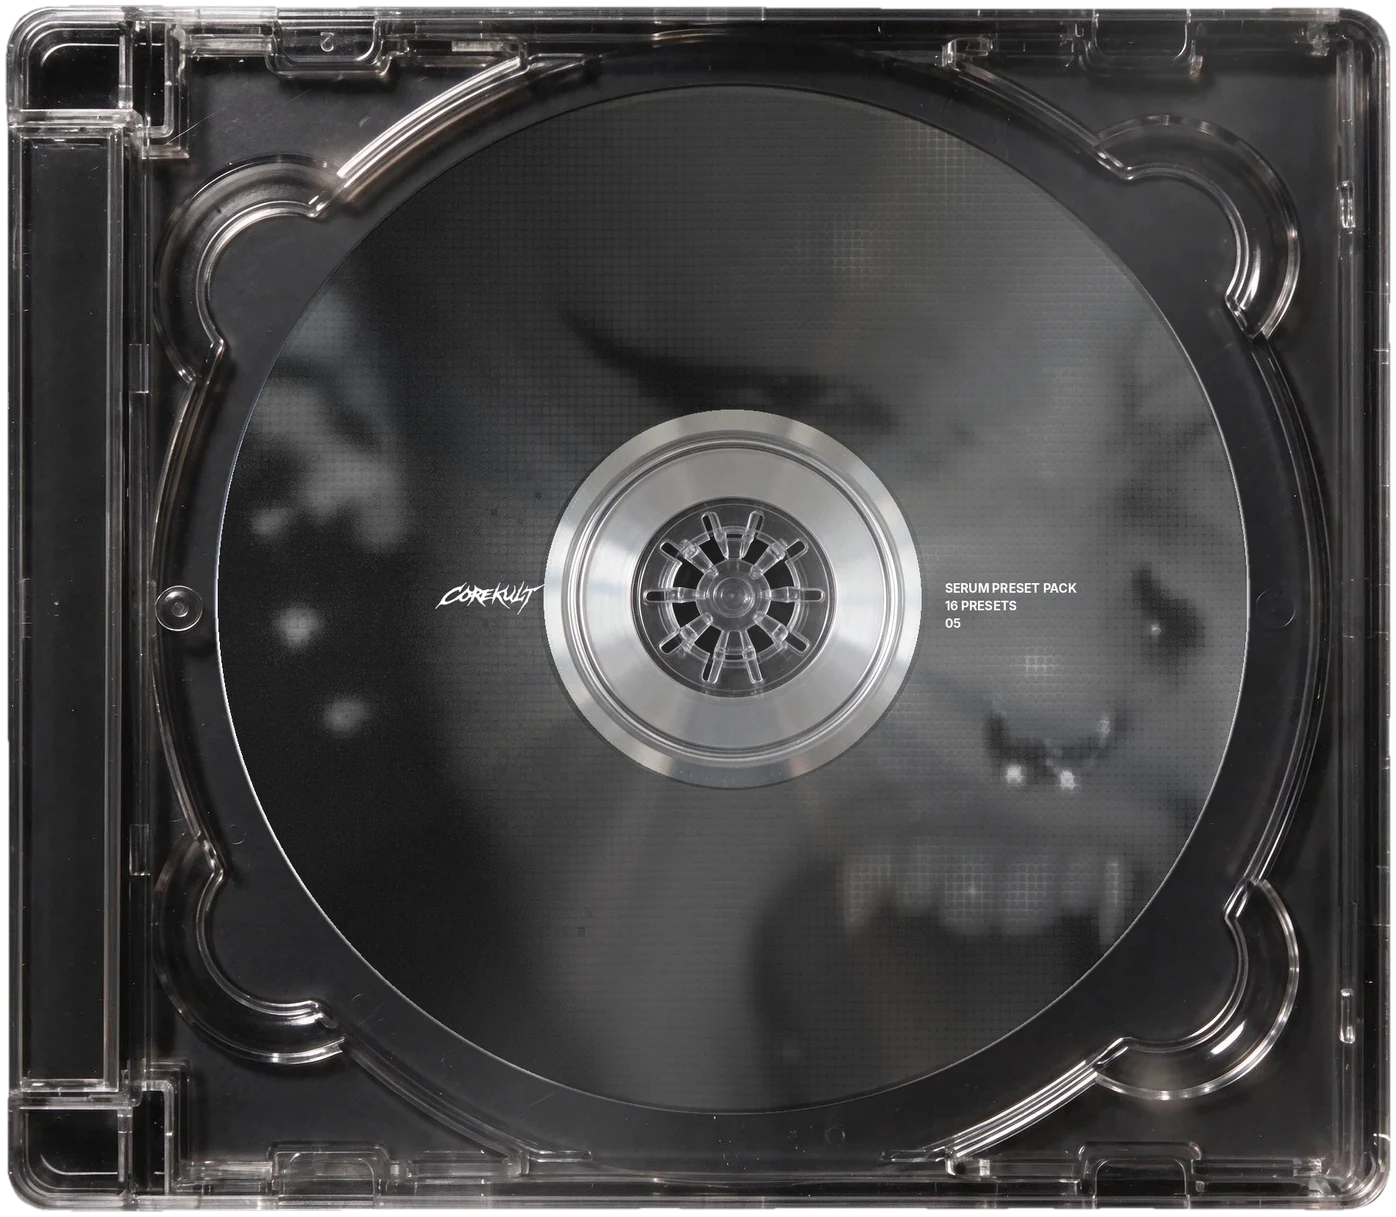
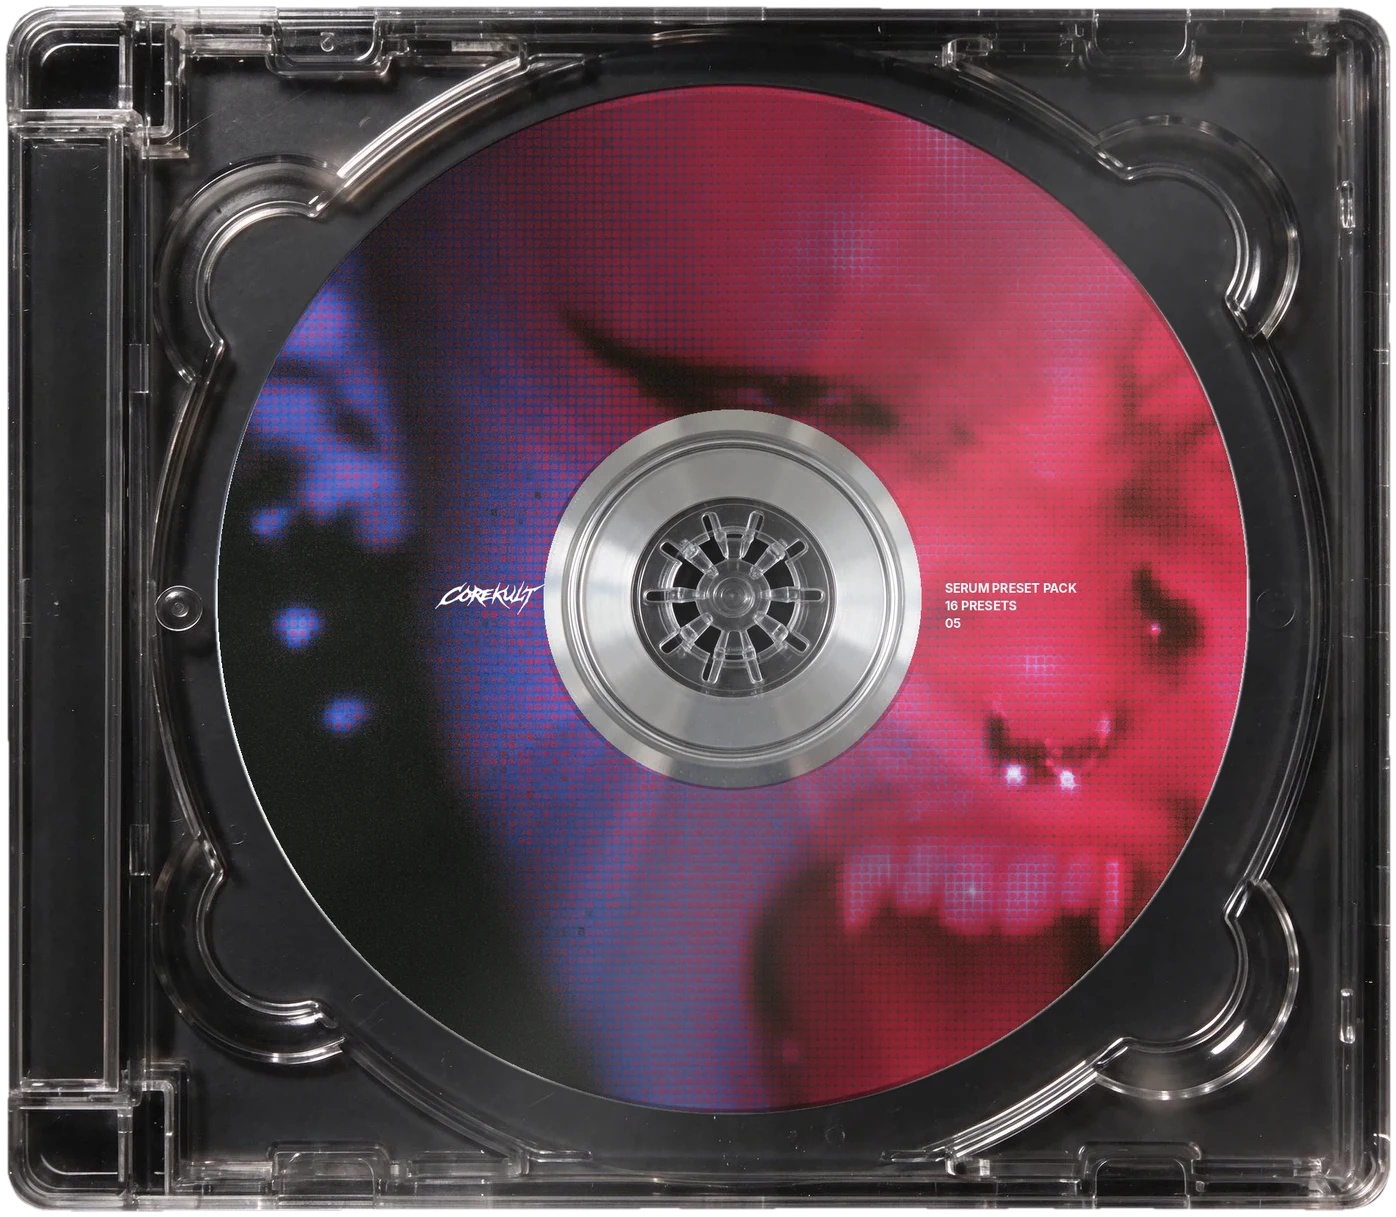
Clean test: V shape picker (31 shapes, Eman's 6 first); packs test: keep colour on portrait disc art
Claude-Session: https://claude.ai/code/session_01A7HnPv9JZyi9h5ztYhoS7x

diff --git a/preview/site/clean-test.html b/preview/site/clean-test.html
@@ -139,6 +139,23 @@ h1{font-family:var(--sans);font-weight:900;font-size:clamp(52px,10.5vw,148px);li
 #list:is([data-v=o],[data-v=p],[data-v=q],[data-v=r]) .card{padding:24px 24px 28px}
 #list:is([data-v=o],[data-v=p]) .card[data-cat=keys]{padding-top:34px}
 #list[data-v=r] .card{padding:26px 28px 30px}
+
+/* shape picker (V) */
+#list .card.pk{display:none}
+#list .card .pn{display:none}
+#list[data-v=v] .card:not(.pk){display:none}
+#list[data-v=v] .ch{display:none}
+#list[data-v=v] .card.pk{display:flex;padding:28px 28px 32px}
+#list[data-v=v]{gap:76px 30px;margin-bottom:70px}
+#list[data-v=v] .card{border:0}
+#list[data-v=v] .fr{display:block;position:absolute;inset:0;width:100%;height:100%;overflow:visible;pointer-events:none}
+#list[data-v=v] .trk{left:0;right:0;bottom:0}
+#list[data-v=v] .trk::before{display:none}
+#list[data-v=v] .card .pn{display:flex;position:absolute;left:0;top:-48px;gap:10px;align-items:baseline;white-space:nowrap}
+.pn b{font:700 22px var(--sans);letter-spacing:-.02em}
+.pn span{font:400 10.5px var(--mono);letter-spacing:.14em;text-transform:uppercase;color:var(--ink2)}
+.pn em{font:600 10px var(--mono);letter-spacing:.14em;text-transform:uppercase;font-style:normal;background:var(--ink);color:var(--paper);padding:2px 7px}
+#list .fr path.dash{stroke-dasharray:10 7}
 @media(max-width:1100px){#list{grid-template-columns:repeat(3,minmax(0,1fr))}}
 @media(max-width:860px){#list{grid-template-columns:repeat(2,minmax(0,1fr));gap:12px}
 #list .st,#list .tm{font-size:9px;letter-spacing:.08em}
@@ -293,7 +310,7 @@ h1{font-family:var(--sans);font-weight:900;font-size:clamp(52px,10.5vw,148px);li
   <div class="wrap">
     <div class="head">
       <div><a class="back" href="packs-test.html">back to all sounds</a><div class="lab" style="margin-top:6px;color:var(--ink3)">14 of 20 shown</div></div>
-      <div class="vsw" id="vsw"><button data-v="a">a / boxes</button><button data-v="b">b / label sheet</button><button data-v="c">c / thorn</button><button data-v="d">d / dark</button><button data-v="e">e / cream labels</button><button data-v="f">f / white purple</button><button data-v="g">g / kraft</button><button data-v="h">h / charcoal</button><button data-v="i">i / acid</button><button data-v="j">j / side strip</button><button data-v="k">k / ticket</button><button data-v="l">l / split</button><button data-v="m">m / blueprint</button><button data-v="n">n / receipt</button><button data-v="o">o / shapes block</button><button data-v="p">p / shapes double</button><button data-v="q">q / shapes sharp</button><button data-v="r">r / shapes brackets</button><button data-v="s">s / chip box</button><button data-v="t">t / chip thorn</button><button data-v="u">u / chip colour box</button></div>
+      <div class="vsw" id="vsw"><button data-v="a">a / boxes</button><button data-v="b">b / label sheet</button><button data-v="c">c / thorn</button><button data-v="d">d / dark</button><button data-v="e">e / cream labels</button><button data-v="f">f / white purple</button><button data-v="g">g / kraft</button><button data-v="h">h / charcoal</button><button data-v="i">i / acid</button><button data-v="j">j / side strip</button><button data-v="k">k / ticket</button><button data-v="l">l / split</button><button data-v="m">m / blueprint</button><button data-v="n">n / receipt</button><button data-v="o">o / shapes block</button><button data-v="p">p / shapes double</button><button data-v="q">q / shapes sharp</button><button data-v="r">r / shapes brackets</button><button data-v="s">s / chip box</button><button data-v="t">t / chip thorn</button><button data-v="u">u / chip colour box</button><button data-v="v">v / shape picker (31)</button></div>
     </div>
     <div id="list" data-v="a"></div>
     <div id="list2" data-v="e" style="display:none"></div>
@@ -379,9 +396,69 @@ const SHAPES={
   pad:(x,y,w,h)=>"M"+(x+22)+" "+y+"Q"+(x-14)+" "+(y+h/2)+" "+(x+22)+" "+(y+h)+"M"+(x+w-22)+" "+y+"Q"+(x+w+14)+" "+(y+h/2)+" "+(x+w-22)+" "+(y+h),
   keys:(x,y,w,h)=>{let d=OPEN([[x,y],[x+w,y]])+OPEN([[x,y+h],[x+w,y+h]]);for(let k=0;k<=w;k+=26){d+="M"+(x+k)+" "+(y+h)+"v-16"}for(let k=0;k<=w;k+=26){d+="M"+(x+k)+" "+y+"v10"}return d}}
 };
+
+/* ---- shape library for the picker (V) ---- */
+const PLJ=(p,a)=>"M"+p.map(q=>(q[0]+Jt(a)).toFixed(1)+" "+(q[1]+Jt(a)).toFixed(1)).join("L")+"Z";
+const D=fn=>(w,h,o=0)=>PL(fn(w-2*o,h-2*o).map(p=>[p[0]+o,p[1]+o]),false);
+const perim=(w,h,fw,fh)=>{const o=[],st=3;
+  for(let x=0;x<=w;x+=st)o.push([x,fw(x,w)]);for(let x=0;x<=h;x+=st)o.push([w-fh(x,h),x]);
+  for(let x=0;x<=w;x+=st)o.push([w-x,h-fw(x,w)]);for(let x=0;x<=h;x+=st)o.push([fh(x,h),h-x]);return o};
+const tri=(x,p,a)=>a*(1-Math.abs(((x%p)/p)*2-1));
+const per=(x,L,p)=>L/Math.max(1,Math.round(L/p));
+const spikes=(p,a)=>(x,L)=>-tri(x,per(x,L,p),a);
+const stampF=(p,r)=>(x,L)=>{const q=per(x,L,p),u=(x%q)/q;return r*Math.abs(Math.sin(u*Math.PI))};
+const cloudF=(p,a)=>(x,L)=>{const q=per(x,L,p),u=(x%q)/q;return -a*Math.abs(Math.sin(u*Math.PI))};
+const rrP=(w,h,r)=>{r=Math.max(2,Math.min(r,w/2,h/2));const o=[],n=8,c=[[w-r,r,-90],[w-r,h-r,0],[r,h-r,90],[r,r,180]];
+  c.forEach(([cx,cy,a0])=>{for(let k=0;k<=n;k++){const a=(a0+90*k/n)*Math.PI/180;o.push([cx+r*Math.cos(a),cy+r*Math.sin(a)])}});return dens(o,40)};
+const sup=(w,h,n)=>{const o=[];for(let i=0;i<110;i++){const t=i/110*Math.PI*2,c=Math.cos(t),s2=Math.sin(t);o.push([w/2+w/2*Math.sign(c)*Math.pow(Math.abs(c),2/n),h/2+h/2*Math.sign(s2)*Math.pow(Math.abs(s2),2/n)])}return o};
+const blobP=(w,h)=>sup(w,h,3.1).map((p,i)=>{const t=i/110*Math.PI*2,k=1+.025*Math.sin(3*t+.8)+.02*Math.sin(5*t+2);return [w/2+(p[0]-w/2)*k,h/2+(p[1]-h/2)*k]});
+const tornF=()=>{const ph=rnd()*9;return x=>(Math.sin(x*.9+ph)+Math.sin(x*2.3+1)+Math.sin(x*.37))*2.4+(rnd()-.5)*3.5+4};
+const stairs=(w,h)=>{const tl=[[0,30],[10,30],[10,20],[20,20],[20,10],[30,10],[30,0]],r=tl.slice().reverse();
+  return dens([...tl,...r.map(p=>[w-p[0],p[1]]).slice(0),...tl.map(p=>[w-p[0],h-p[1]]).reverse().reverse(),...r.map(p=>[p[0],h-p[1]])].filter(Boolean),20)};
+const cornerArc=(cx,cy,a0,a1)=>{const o=[];for(let k=0;k<=8;k++){const a=(a0+(a1-a0)*k/8)*Math.PI/180;o.push([cx+14*Math.cos(a),cy+14*Math.sin(a)])}return o};
+const coupon=(w,h)=>[[14,0],[w-14,0],...cornerArc(w,0,180,90),[w,h-14],...cornerArc(w,h,270,180),[14,h],...cornerArc(0,h,0,-90),[0,14],...cornerArc(0,0,90,0)];
+const ln=(a,b)=>"M"+(a[0]+Jt(2)).toFixed(1)+" "+(a[1]+Jt(2)).toFixed(1)+"L"+(b[0]+Jt(2)).toFixed(1)+" "+(b[1]+Jt(2)).toFixed(1);
+const rect=(w,h)=>dens([[0,0],[w,0],[w,h],[0,h]],50);
+const SHP=[
+ {n:"wavy double",sel:1,f:(w,h)=>SHAPES[1].pad(0,0,w,h)+SHAPES[1].pad(7,7,w-14,h-14)},
+ {n:"thorn pillow",sel:1,f:(w,h)=>{const sp=8,c=16,j=()=>(rnd()-.5)*2.6;const P=[[c,0],[w*.35,j()],[w*.7,j()],[w-c,0],[w+sp,-sp],[w,c],[w+j(),h*.35],[w+j(),h*.7],[w,h-c],[w+sp,h+sp],[w-c,h],[w*.65,h+j()],[w*.3,h+j()],[c,h],[-sp,h+sp],[0,h-c],[j(),h*.65],[j(),h*.3],[0,c],[-sp,-sp]];return "M"+P.map(p=>p[0].toFixed(1)+" "+p[1].toFixed(1)).join("L")+"Z"}},
+ {n:"ticket notches",sel:1,f:(w,h)=>SHAPES[2].keys(0,0,w,h)},
+ {n:"zigzag receipt",sel:1,f:(w,h)=>SHAPES[2].synth(0,0,w,h)},
+ {n:"cut corners",sel:1,f:(w,h)=>SHAPES[1].synth(0,0,w,h)},
+ {n:"notched block",sel:1,f:(w,h)=>SHAPES[1].bass(0,0,w,h)},
+ {n:"chamfer octagon",f:(w,h)=>SHAPES[2].bass(0,0,w,h)},
+ {n:"spike teeth all round",f:D((w,h)=>perim(w,h,spikes(16,9),spikes(16,9)))},
+ {n:"sketch double pass",f:(w,h)=>PLJ(dens([[0,0],[w,0],[w,h],[0,h]],40),3.4)+PLJ(dens([[3,4],[w+2,-1],[w-2,h+3],[-2,h-2]],40),3.4)},
+ {n:"rounded",f:D((w,h)=>rrP(w,h,30))},
+ {n:"rounded double",f:(w,h)=>D((a,b)=>rrP(a,b,32))(w,h,0)+D((a,b)=>rrP(a,b,22))(w,h,8)},
+ {n:"pill",f:D((w,h)=>rrP(w,h,90))},
+ {n:"squircle",f:D((w,h)=>sup(w,h,4))},
+ {n:"organic blob",f:D(blobP)},
+ {n:"torn paper",f:D((w,h)=>{const t=tornF(),u=tornF();return perim(w,h,t,()=>0).map((p,i,a)=>p)})},
+ {n:"stamp edge",f:D((w,h)=>perim(w,h,stampF(24,7),stampF(24,7)))},
+ {n:"double chamfer",f:(w,h)=>SHAPES[2].bass(0,0,w,h)+SHAPES[2].bass(8,8,w-16,h-16)},
+ {n:"pixel stairs",f:D(stairs)},
+ {n:"long spike corners",f:D((w,h)=>dens([[14,0],[w-14,0],[w+18,-18],[w,14],[w,h-14],[w+18,h+18],[w-14,h],[14,h],[-18,h+18],[0,h-14],[0,14],[-18,-18]],40))},
+ {n:"taped corners",f:(w,h)=>PL(rect(w,h),false)+[[[-6,26],[26,-6],[40,8],[8,40]],[[w+6,h-26],[w-26,h+6],[w-40,h-8],[w-8,h-40]]].map(t=>PL(t,false)).join("")},
+ {n:"overshoot lines",f:(w,h)=>ln([-16,2],[w+10,-1])+ln([w-1,-14],[w+3,h+12])+ln([w+14,h-2],[-10,h+2])+ln([2,h+16],[-2,-10])},
+ {n:"offset shadow box",f:(w,h)=>PL(rect(w-12,h-12),false)+"M"+[[12,12],[w,12],[w,h],[12,h]].map(p=>p.join(" ")).join("L")+"Z"},
+ {n:"speech bubble",f:(w,h)=>PL(rrP(w,h-18,24),false)+ln([34,h-18],[22,h+2])+ln([22,h+2],[64,h-18])},
+ {n:"long hexagon",f:D((w,h)=>dens([[34,0],[w-34,0],[w,h/2],[w-34,h],[34,h],[0,h/2]],40))},
+ {n:"gravestone double",f:(w,h)=>{const g=(a,b)=>{const o=[];for(let t=0;t<=1.001;t+=.04)o.push([a*t,46*(1-Math.sin(Math.PI*Math.min(1,t)))*(1)+0]);const m=[];for(let t=0;t<=1.001;t+=.04){const u=Math.min(1,t);m.push([a*u,46-46*Math.sin(Math.PI*u)])}return dens([...m,[a,b],[0,b]],40)};return D(g)(w,h,0)+D(g)(w,h,7)}},
+ {n:"big cloud bumps",f:D((w,h)=>perim(w,h,cloudF(80,15),cloudF(80,15)))},
+ {n:"explosion edge",f:D((w,h)=>{const e=(x,L)=>{const q=per(x,L,17),k=Math.floor(x/q+.001);return -tri(x,q,5+(k*37)%11)};return perim(w,h,e,e)})},
+ {n:"dashed rounded",dash:1,f:D((w,h)=>rrP(w,h,26))},
+ {n:"triple line",f:(w,h)=>[0,6,12].map(o=>D((a,b)=>rrP(a,b,28-o))(w,h,o)).join("")},
+ {n:"coupon corners",f:D(coupon)},
+ {n:"price tag",f:D((w,h)=>dens([[0,0],[w-40,0],[w,h/2],[w-40,h],[0,h]],40))}
+];
+const pad2=n=>String(n).padStart(2,"0"),CARDSV=[];
+SHP.forEach((sh,k)=>{const base=CARDS1[k%14],c=document.createElement("div");c.className="card pk";c.dataset.i=k;c.dataset.shape=k;c.dataset.idle=base.dataset.idle;c.dataset.cat=base.dataset.cat;
+  c.innerHTML=base.innerHTML+'<div class="pn"><b>'+pad2(k+1)+'</b><span>'+sh.n+'</span>'+(sh.sel?'<em>selected</em>':'')+'</div>';list.appendChild(c);CARDSV.push(c)});
 function drawFrame(f){
   const el=f.parentNode,w=el.clientWidth,h=el.clientHeight;if(!w||!h)return;
   const v=list.dataset.v,m={o:1,p:1,q:2,r:3}[v],cat=el.dataset.cat;
+  if(v==="v"&&el.dataset.shape!==undefined){const sh=SHP[+el.dataset.shape];if(!sh)return;f.innerHTML='<path'+(sh.dash?' class="dash"':'')+' d="'+sh.f(w,h)+'"/>';return}
   if(m){const g=SHAPES[m][cat];let d=g(0,0,w,h);if(v==="p")d+=g(7,7,w-14,h-14);f.innerHTML='<path d="'+d+'"/>';return}
   const sp=8,c=16,j=()=>(rnd()-.5)*2.6;
   const P=[[c,0],[w*.35,j()],[w*.7,j()],[w-c,0],[w+sp,-sp],[w,c],[w+j(),h*.35],[w+j(),h*.7],[w,h-c],[w+sp,h+sp],[w-c,h],[w*.65,h+j()],[w*.3,h+j()],[c,h],[-sp,h+sp],[0,h-c],[j(),h*.65],[j(),h*.3],[0,c],[-sp,-sp]];
@@ -425,10 +502,10 @@ SOUNDS.forEach((s,i)=>{
 const sec=document.getElementById("sounds"),vsw=document.getElementById("vsw");
 let CARDS=CARDS1;
 function setV(v){
-  if(!/^[a-u]$/.test(v))v="a";
-  const old=/^[abcdo-u]$/.test(v);
+  if(!/^[a-v]$/.test(v))v="a";
+  const old=/^[abcdo-v]$/.test(v);
   if(cur>=0){audio.pause();reset(cur);cur=-1}
-  CARDS=old?CARDS1:CARDS2;
+  CARDS=old?(v==="v"?CARDSV:CARDS1):CARDS2;
   list.style.display=old?"":"none";list2.style.display=old?"none":"";
   (old?list:list2).dataset.v=v;sec.classList.toggle("dark",v==="d");sec.classList.toggle("pg2",!old);
   vsw.querySelectorAll("button").forEach(b=>b.classList.toggle("on",b.dataset.v===v));
@@ -440,19 +517,19 @@ let v0=(location.hash||"").slice(1);if(!v0){try{v0=localStorage.getItem("ck-clea
 setV(v0);
 
 /* audio: one player, the black stroke fills as it plays */
-var cur=-1,raf=0;const audio=new Audio();audio.preload="auto";
+var cur=-1,raf=0;const SN=i=>SOUNDS[CARDS===CARDSV?i%14:i];const audio=new Audio();audio.preload="auto";
 function setTicks(c,f){const u=c.querySelectorAll(".ticks u");if(u.length){const n=Math.round(f*u.length);for(let k=0;k<u.length;k++)u[k].classList.toggle("on",k<n)}else{const p=c.querySelector(".prog");if(p)p.style.width=(f*100)+"%"}}
 function reset(i){const c=CARDS[i];if(!c)return;c.classList.remove("on");c.querySelector(".tm").textContent=c.dataset.idle;setTicks(c,0);c.querySelector(".sv").textContent="idle"}
 function play(i){
   if(cur===i){ if(audio.paused){audio.play();CARDS[i].classList.add("on");CARDS[i].querySelector(".sv").textContent="playing";loop()} else {audio.pause();CARDS[i].classList.remove("on");CARDS[i].querySelector(".sv").textContent="paused"} return }
   if(cur>=0)reset(cur);
-  cur=i;audio.src="cleanpage/snd/"+SOUNDS[i][0]+".mp3";audio.currentTime=0;audio.play();
+  cur=i;audio.src="cleanpage/snd/"+SN(i)[0]+".mp3";audio.currentTime=0;audio.play();
   CARDS[i].classList.add("on");CARDS[i].querySelector(".sv").textContent="playing";loop();
 }
 function loop(){
   cancelAnimationFrame(raf);
   const tick=()=>{
-    if(cur<0)return;const c=CARDS[cur],d=audio.duration||SOUNDS[cur][5],t=audio.currentTime;
+    if(cur<0)return;const c=CARDS[cur],d=audio.duration||SN(cur)[5],t=audio.currentTime;
     c.querySelector(".tm").textContent=fmt(t)+" / "+fmt(d);
     setTicks(c,Math.min(1,t/d));
     if(!audio.paused)raf=requestAnimationFrame(tick);
@@ -467,7 +544,7 @@ const onClick=e=>{
 document.addEventListener("keydown",e=>{
   if(e.target.closest&&e.target.closest("button")&&e.code==="Space")return;
   if(e.code==="Space"){e.preventDefault();play(cur<0?0:cur)}
-  if(e.code==="ArrowRight"||e.code==="ArrowDown"){e.preventDefault();play(Math.min(SOUNDS.length-1,cur+1))}
+  if(e.code==="ArrowRight"||e.code==="ArrowDown"){e.preventDefault();play(Math.min(CARDS.length-1,cur+1))}
   if(e.code==="ArrowLeft"||e.code==="ArrowUp"){e.preventDefault();play(Math.max(0,cur-1))}
 });
 
